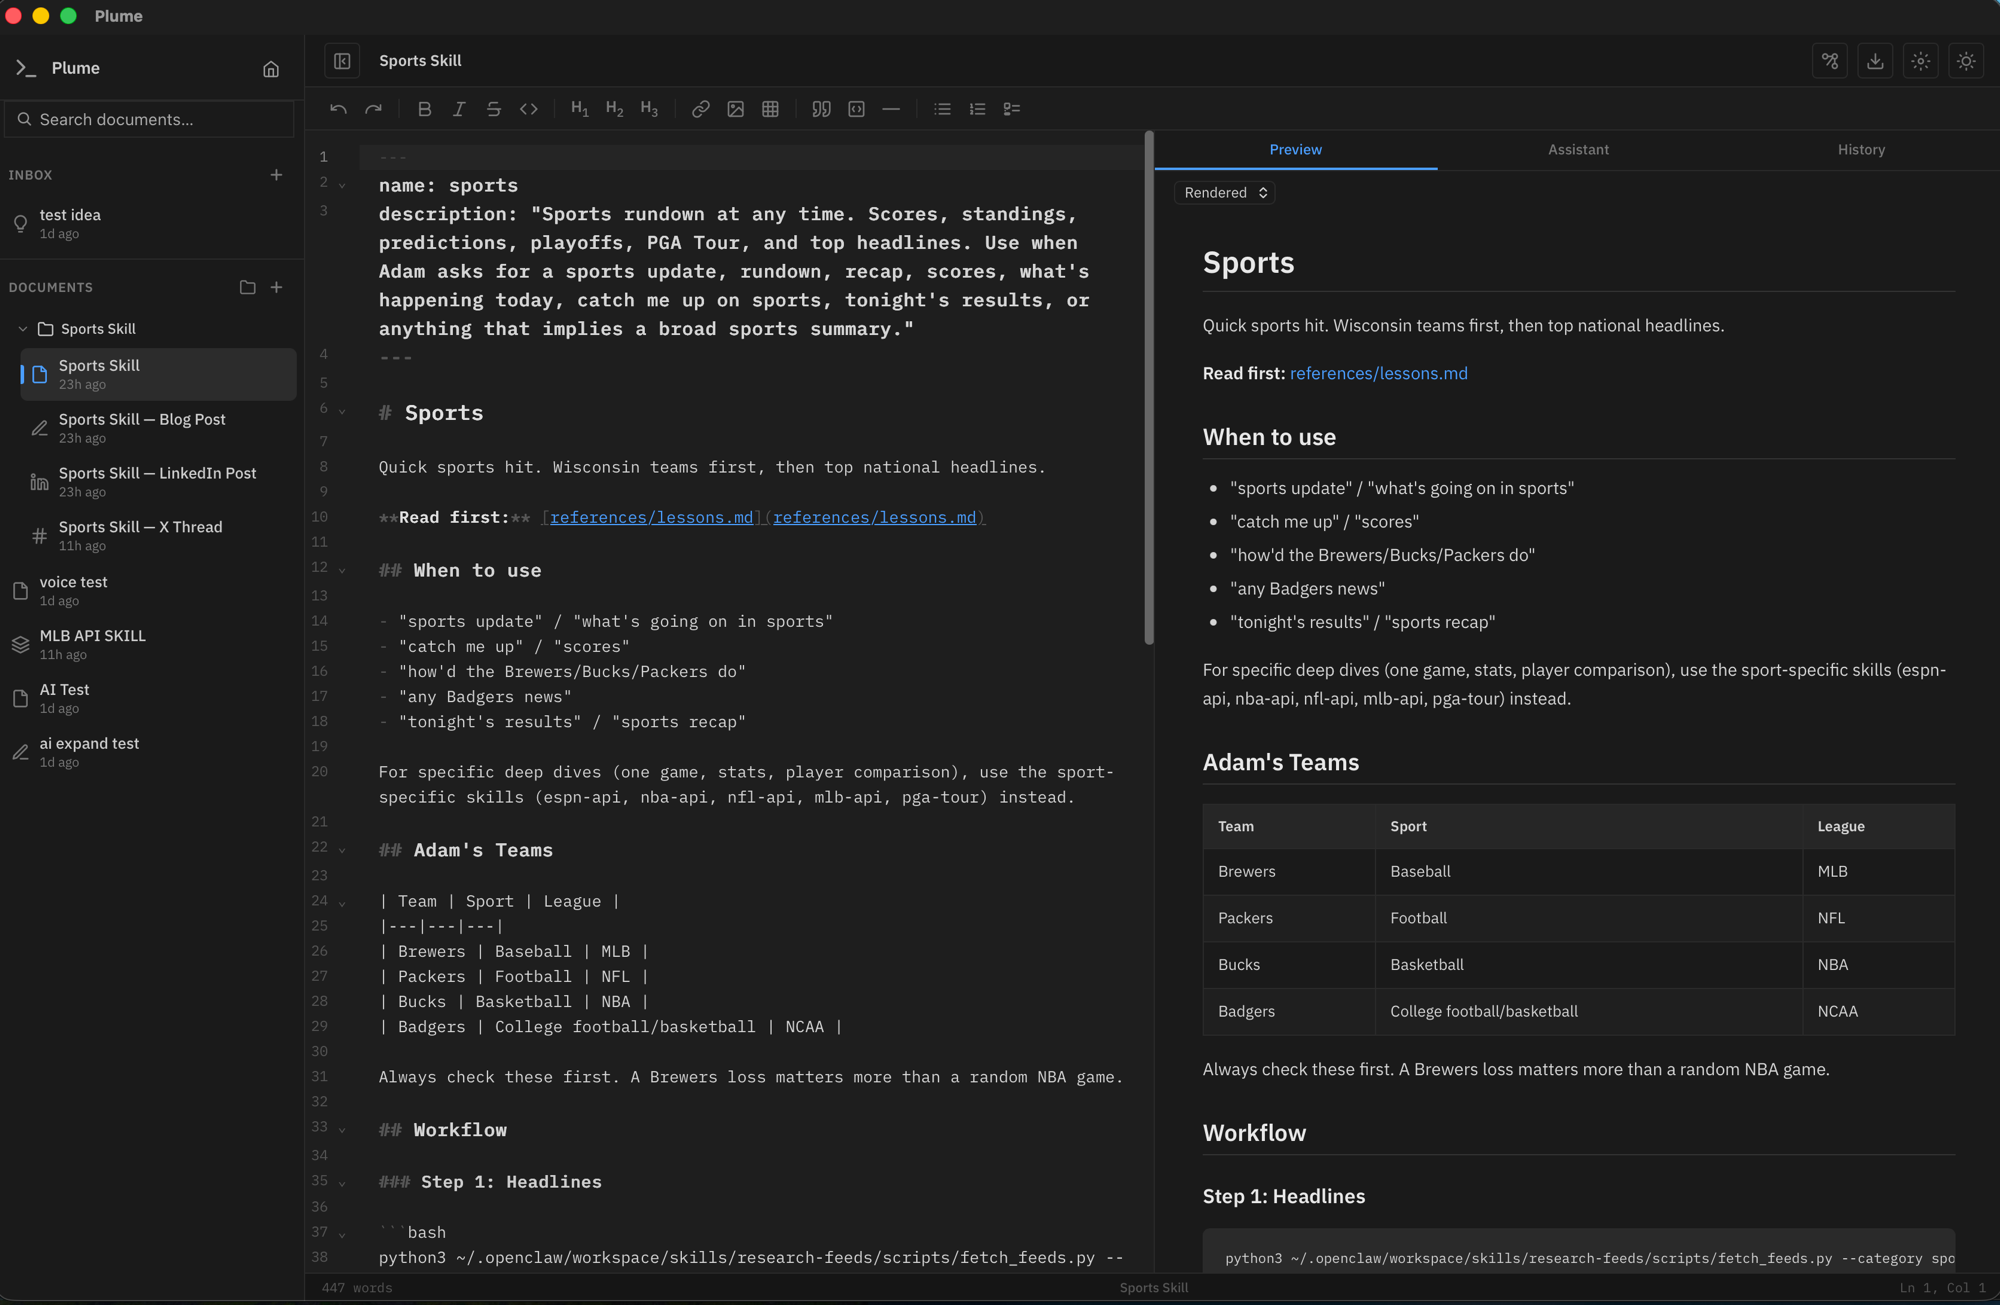
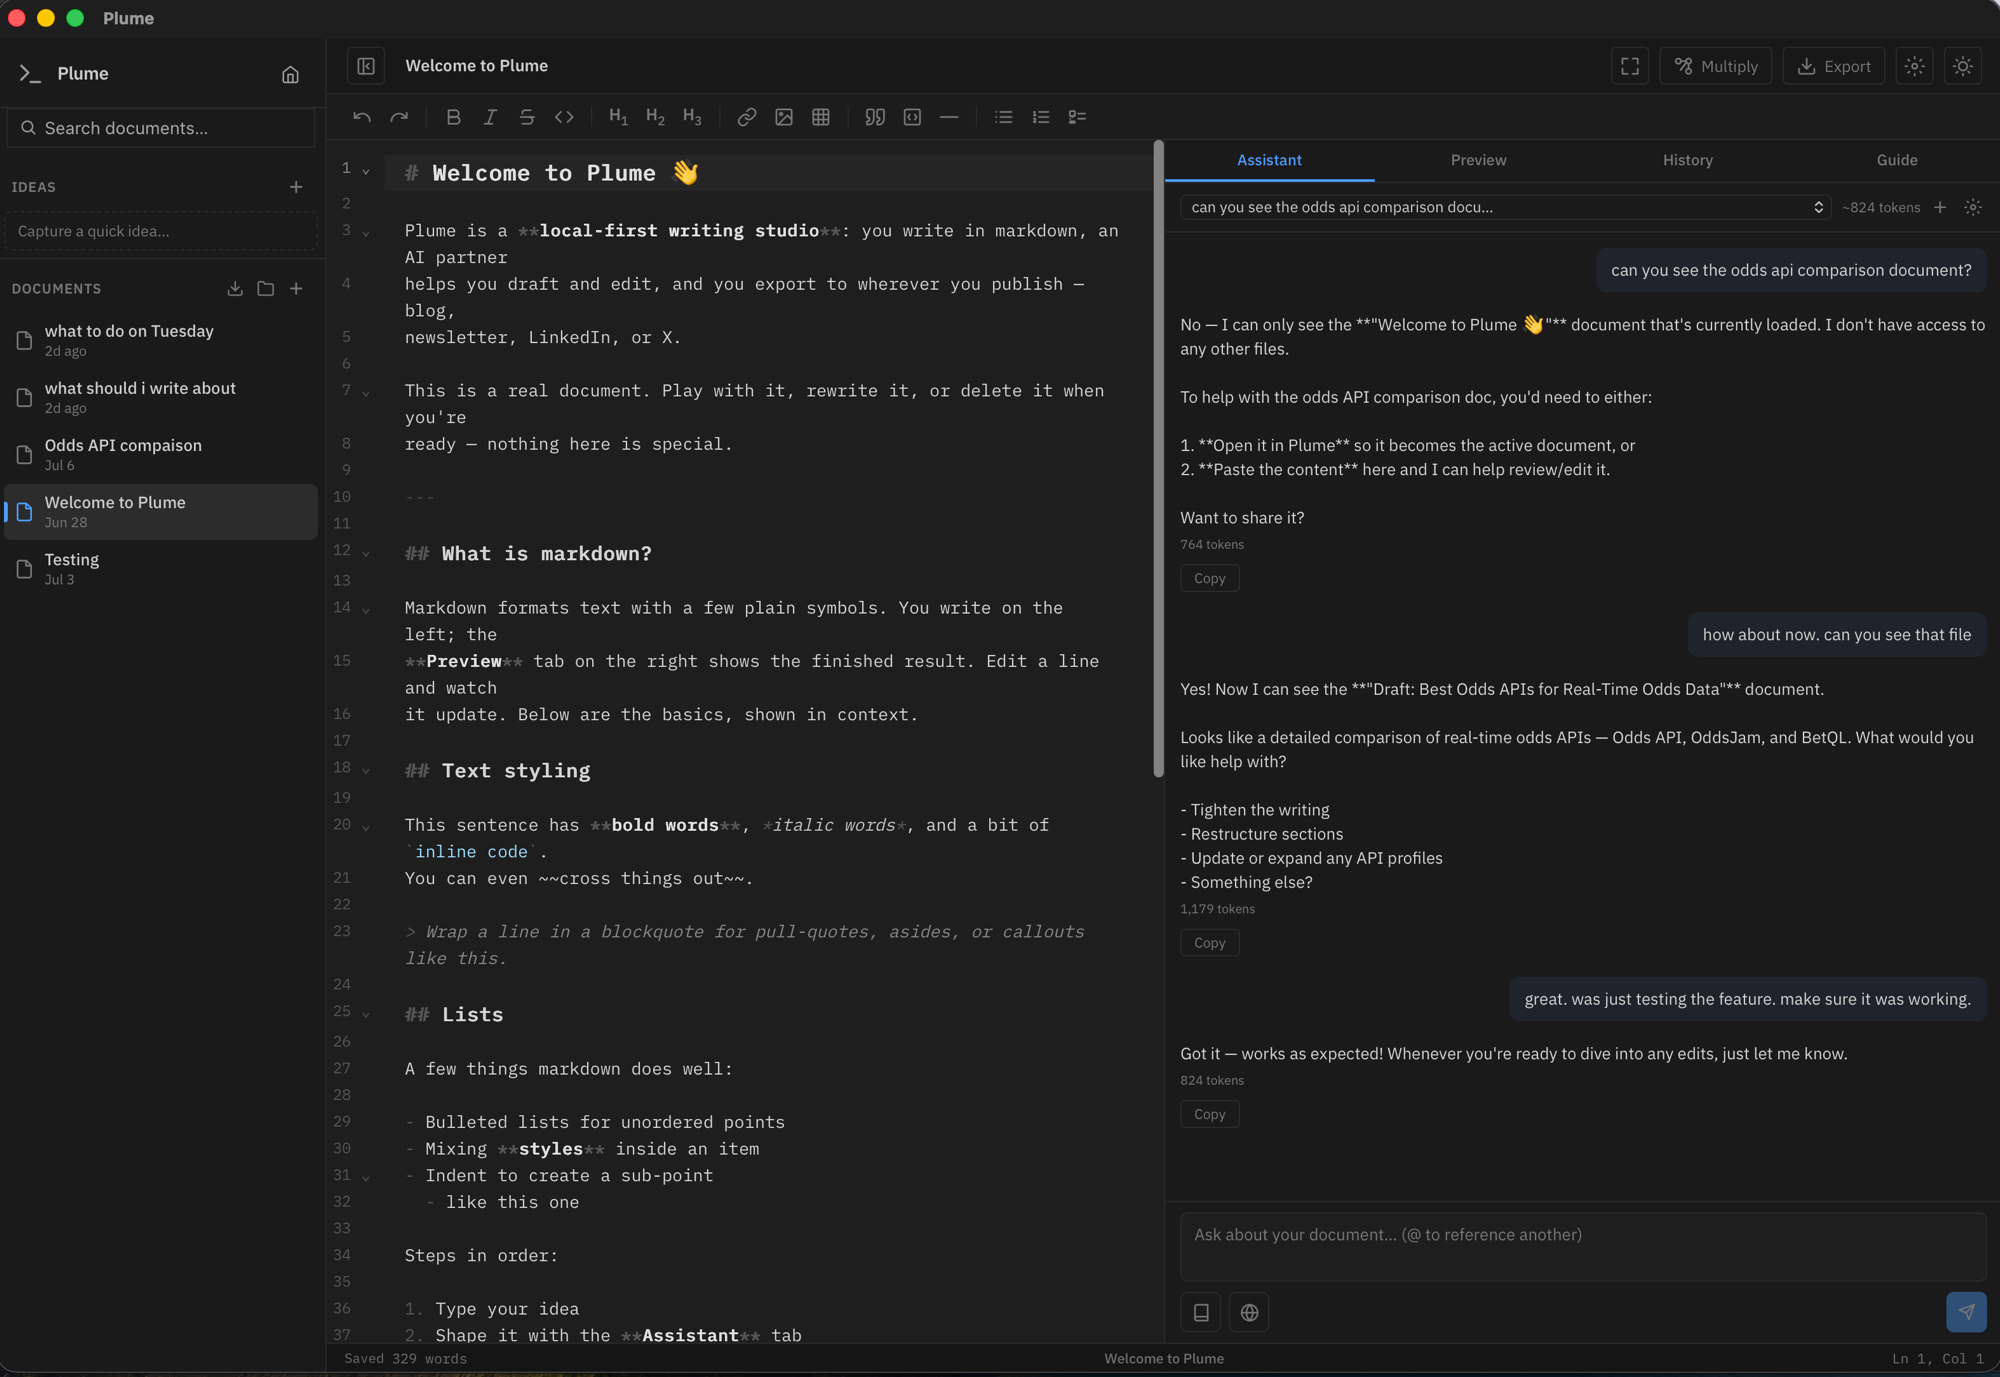
docs: replace outdated screenshot with the current assistant capture
Consolidate to a single canonical docs/screenshot.png (now the current UI
showing the AI assistant searching the user's own docs); drop the temporary
screenshot-assistant.png and repoint README + landing page back to
screenshot.png.

diff --git a/docs/index.html b/docs/index.html
@@ -320,7 +320,7 @@
           <div class="dots"><span class="r"></span><span class="y"></span><span class="g"></span></div>
           <span class="label">plume — welcome.md</span>
         </div>
-        <img src="screenshot-assistant.png" alt="Plume — markdown editor with an AI assistant that searches your own documents" />
+        <img src="screenshot.png" alt="Plume — markdown editor with an AI assistant that searches your own documents" />
       </div>
     </div>
   </header>

diff --git a/README.md b/README.md
@@ -7,7 +7,7 @@ finished piece for wherever you publish. Everything stays on your machine.
 
 Built for people who write in markdown and build in public.
 
-![Plume — the markdown editor with an AI assistant that searches your own documents](docs/screenshot-assistant.png)
+![Plume — the markdown editor with an AI assistant that searches your own documents](docs/screenshot.png)
 
 ## Features
 